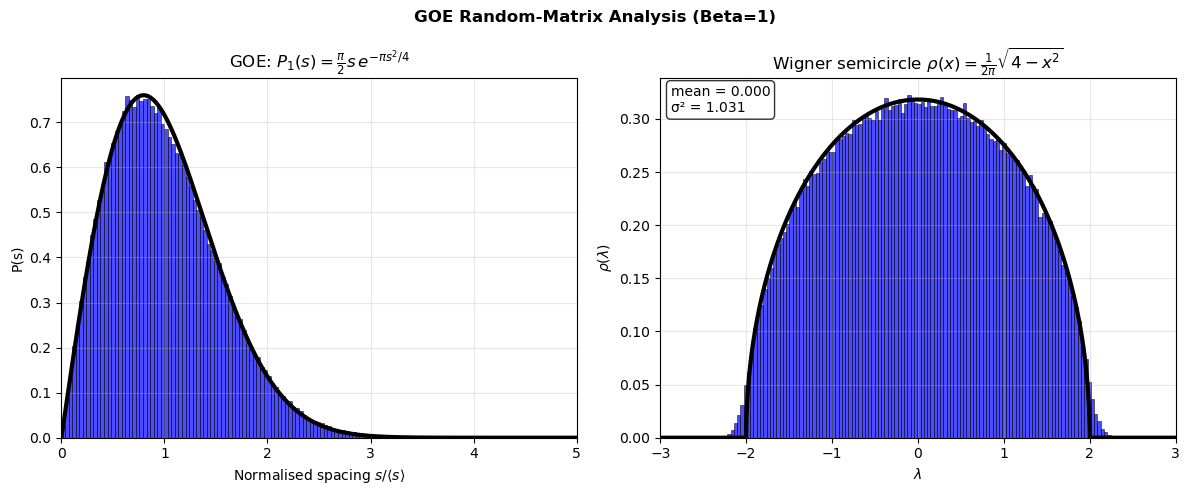
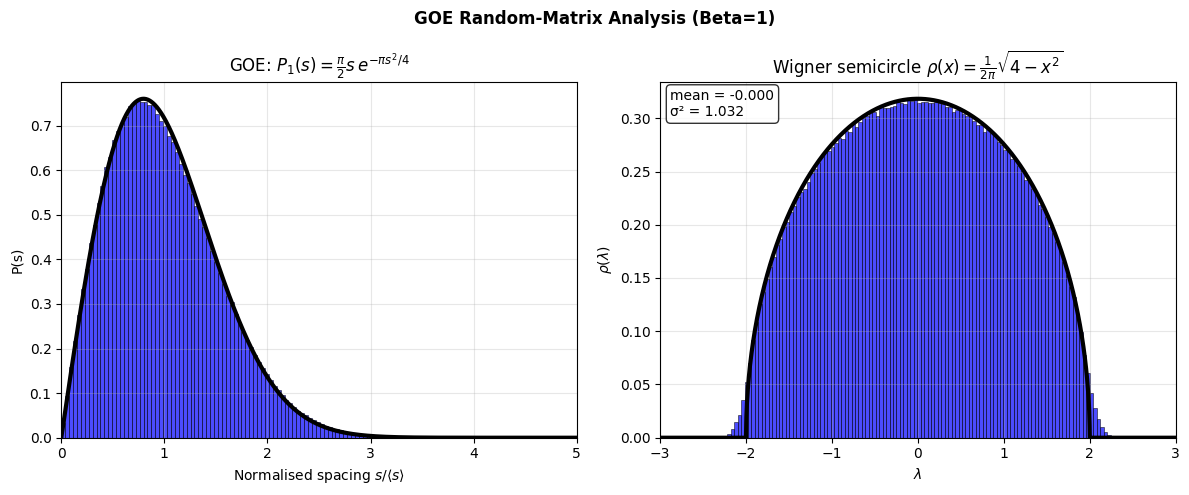
update
GSE Fix, Readme update

diff --git a/equations.py b/equations.py
@@ -23,12 +23,13 @@ def create_goe_matrix(size):
 
 
 def create_gue_matrix(size):
-    sigma = 1 / np.sqrt(size)
+    sigma_off = 1 / np.sqrt(size)
+    sigma_diag = np.sqrt(2) * sigma_off
     matrix = np.zeros((size, size), dtype=np.complex128)
     upper = np.triu_indices(size, k=1)
-    matrix[upper] = sample_gaussian_complex(sigma, len(upper[0]))
+    matrix[upper] = sample_gaussian_complex(sigma_off, len(upper[0]))
     matrix += np.conj(matrix.T)
-    np.fill_diagonal(matrix, sample_gaussian_real(sigma, size))
+    np.fill_diagonal(matrix, sample_gaussian_real(sigma_diag, size))
     return matrix
 
 
@@ -46,7 +47,7 @@ def create_gse_matrix(size):
     # B: complex anti-Hermitian (B† = -B), diagonal zero
     B = np.zeros((size, size), dtype=np.complex128)
     B[upper] = sample_gaussian_complex(sigma_off, len(upper[0]))
-    B = B - np.conj(B.T)
+    B = B - B.T
     np.fill_diagonal(B, 0.0 + 0.0j)
 
     upper_block = np.hstack((A, B))
@@ -88,6 +89,7 @@ def semicircular_cumulative(x):
 
 
 def unfold_eigenvalues(eigenvalues):
+    eigenvalues = np.sort(eigenvalues)
     size = len(eigenvalues)
     return size * semicircular_cumulative(eigenvalues)
 

diff --git a/utils.py b/utils.py
@@ -84,7 +84,7 @@ def visualize_spectral_density_evolution(cfg):
     rows = (len(sizes) + columns - 1) // columns
 
     figure, axes = plt.subplots(rows, columns, figsize=(15, 5 * rows))
-    axes = axes.reshape(rows, columns)
+    axes = np.atleast_2d(axes).reshape(rows, columns)
     figure.suptitle('Spectral Density Across Symmetric Matrix Sizes', fontsize=18, fontweight='bold')
 
     for ensemble in ensembles:
@@ -95,7 +95,9 @@ def visualize_spectral_density_evolution(cfg):
             r, c = divmod(index, columns)
             ax = axes[r, c]
             eigenvalues = data[matrix_size]
-            histogram, edges = np.histogram(eigenvalues, bins=bins, density=True, range=(-3, 3))
+            eig_min, eig_max = eigenvalues.min(), eigenvalues.max()
+            hist_range = (min(-3, eig_min), max(3, eig_max))
+            histogram, edges = np.histogram(eigenvalues, bins=bins, density=True, range=hist_range)
             centres = 0.5 * (edges[:-1] + edges[1:])
             ax.plot(centres, histogram, color=props['color'], lw=2, alpha=0.8, label=ensemble)
             ax.fill_between(centres, 0, histogram, color=props['color'], alpha=0.25)

diff --git a/main.py b/main.py
@@ -4,7 +4,7 @@ from utils import ensure_images_directory, run_ensemble_analysis, run_spectral_e
 def config():
     return {
         'matrix_size': 32,
-        'num_samples': 10000,
+        'num_samples': 50000,
         'batch_size': 512,
         'ensembles': ['GOE', 'GUE', 'GSE'],
         'spectral_matrix_sizes': [1, 2, 4, 8, 16, 32],

diff --git a/README.md b/README.md
@@ -3,10 +3,11 @@
 In this project, we explore Random Matrix Theory and its unique mathematical physics. We demonstrate the universal statistical behavior of eigenvalues in random matrices.
 Sampling from 50,000 random matrices across three symmetry classes, we observe quantum chaotic systems and demonstrate identical statistical patterns.
 This implementation reveals both Wigner's semicircle law for global eigenvalue density and level repulsion phenomena in local spacing statistics.
+These statistical patterns are universal as they depend only on the symmetry class (β), not on the specific distribution used to generate matrix entries.
 
 ## Overview
 
-We utilize the three classical ensembles, each representing different quantum mechanical symmetries found in nature, namely Gaussian Orthogonal, Gaussian Unitary. and Gaussian Symplectic.
+We utilize the three classical ensembles, each representing different quantum mechanical symmetries found in nature, namely Gaussian Orthogonal, Gaussian Unitary, and Gaussian Symplectic.
 GOE (Gaussian Orthogonal Ensemble) describes systems with time-reversal symmetry, such as quantum systems with spinless particles or systems where the Hamiltonian commutes with the time-reversal operator T (where T² = +1).
 GUE (Gaussian Unitary Ensemble) represents systems without time-reversal symmetry, such as those found in systems with magnetic fields or complex quantum systems.
 GSE (Gaussian Symplectic Ensemble) captures systems with time-reversal symmetry but with additional constraints, specifically systems with half-integer spin where T² = -1, leading to Kramers degeneracy.
@@ -30,9 +31,9 @@ Each ensemble demonstrates both global adherence to Wigner's semicircle and loca
 **Gaussian Symplectic Ensemble (GSE)**  
 ![GSE Results](images/GSE_RMT.png)
 
-The left panels show level spacing distributions demonstrating **level repulsion** - eigenvalues avoid being close together, ith the repulsion strength increasing from
-GOE (linear) to GUE (quadratic) to GSE (quartic). You can see that while the GOE and GUE implemetations perfectly fit the curve, our GSE implementation suffers. This is likely due to
-kramer degeneracy as I could not find a meaningful fix.
+The left panels show level spacing distributions demonstrating **level repulsion** - eigenvalues avoid being close together, with the repulsion strength increasing from
+GOE (linear) to GUE (quadratic) to GSE (quartic). This repulsion is not a "force", but a geometric effect of RMT. 
+The joint eigenvalue density contains a Jacobian factor |λ₁ - λ₂|^β, with a higher β providing more degrees of freedom to keep the eigenvalues spaced apart. The GOE, GUE, and GSE implementations closely fit the Wigner surmise curves.
 
 ### Spectral Density Evolution
 
@@ -40,7 +41,7 @@ All three ensembles converge to Wigner's semicircle law as matrix size increases
 
 ![Spectral Evolution](images/Spectral_Density_Evolution.png)
 
-This work demonstrates how random fluctuations in small matrices gradually produce Wigner's semicricle.
+This work demonstrates how random fluctuations in small matrices gradually produce Wigner's semicircle. At small N each eigenvalue appears as a distinct bump in the density, but as N grows, these bumps average out by the law of large numbers, ultimately converging to the semicircular limit.
 
 ## Mathematical Foundation
 
@@ -58,8 +59,6 @@ The eigenvalue density converges to:
 - **GUE**: P₂(s) = (32/π²)s² exp(-4s²/π)
 - **GSE**: P₄(s) = A₄s⁴ exp(-64s²/9π)
 
-This generates all visualizations showing both local spacing (repulsion) and global density universality across all three ensemble types.
-
 ## Citation
 
 If you use this code in your research, please cite:
@@ -76,3 +75,5 @@ If you use this code in your research, please cite:
 ## References
 
 [1] Wigner, E. P. (1955). Characteristic vectors of bordered matrices with infinite dimensions. *Annals of Mathematics*, 62(3), 548-564.
+
+[2] Mehta, M. L. (2004). *Random Matrices* (3rd ed.). Academic Press.
